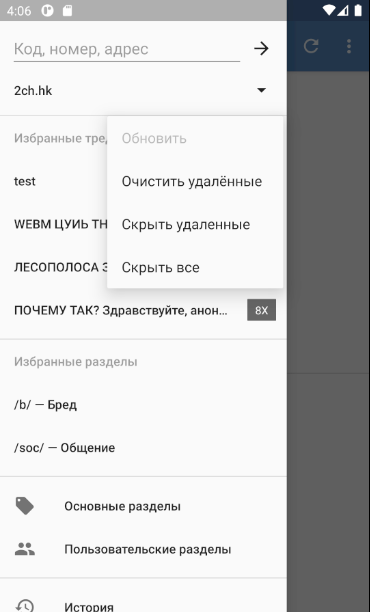
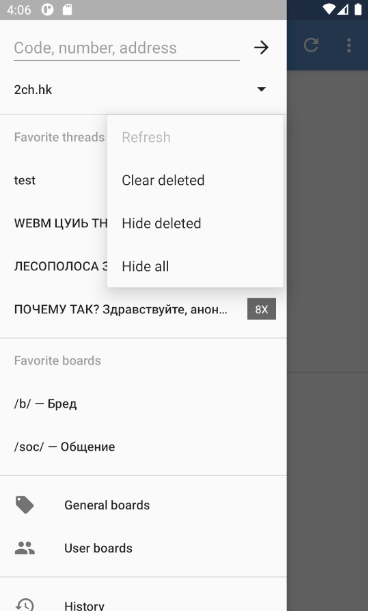
TrixiEther | Readme 1.6.2

diff --git a/README.md b/README.md
@@ -36,6 +36,7 @@ Android client for imageboards.
 * Captcha timer support with automatic reload for imageboards where this is supported
 * Hiding the list of favorite threads
 * Some interface improvements, with the ability to border highlight your posts and see your posts and replies on the scrollbar
+* Additional functionality when attaching pictures (remembering settings, renaming a file)
 
 ## Screenshots
 
@@ -43,6 +44,8 @@ Android client for imageboards.
 <img src="metadata/en-US/images/phoneScreenshots/9.png" width="20%" />
 <img src="metadata/en-US/images/phoneScreenshots/10.png" width="20%" />
 <img src="metadata/en-US/images/phoneScreenshots/11.png" width="20%" />
+<img src="metadata/en-US/images/phoneScreenshots/12.png" width="20%" />
+<img src="metadata/en-US/images/phoneScreenshots/13.png" width="20%" />
 </p>
 
 ## Building Guide
